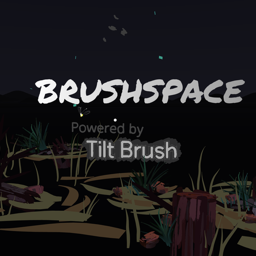
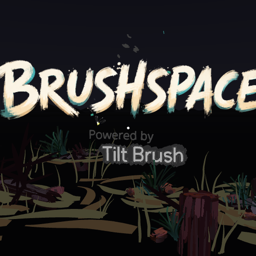
feat: painterly Brushspace wordmark
New hand-painted wordmark texture (black background keyed out via
max-channel alpha + unpremultiply with a noise floor so the soft brush
edges survive), sized to its 2081x467 aspect, with a refreshed welcome
thumbnail.

diff --git a/src/systems/IntroSketchSystem.ts b/src/systems/IntroSketchSystem.ts
@@ -42,9 +42,9 @@ const INTRO_SCALE = 0.1;
 // signage. Local units are decimeters (parented under the intro root).
 const WORDMARK_URL = assetUrl("/openbrush/intro/brushspace.png");
 const WORDMARK_WIDTH_DM = 50;
-// 968x118 px source.
-const WORDMARK_HEIGHT_DM = (WORDMARK_WIDTH_DM * 118) / 968;
-const WORDMARK_POSITION_DM: readonly [number, number, number] = [0, 14, -40];
+// 2081x467 px source.
+const WORDMARK_HEIGHT_DM = (WORDMARK_WIDTH_DM * 467) / 2081;
+const WORDMARK_POSITION_DM: readonly [number, number, number] = [0, 16, -40];
 
 /**
  * Open Brush's welcome-screen sketch (openbrush_intro_simple.prefab),